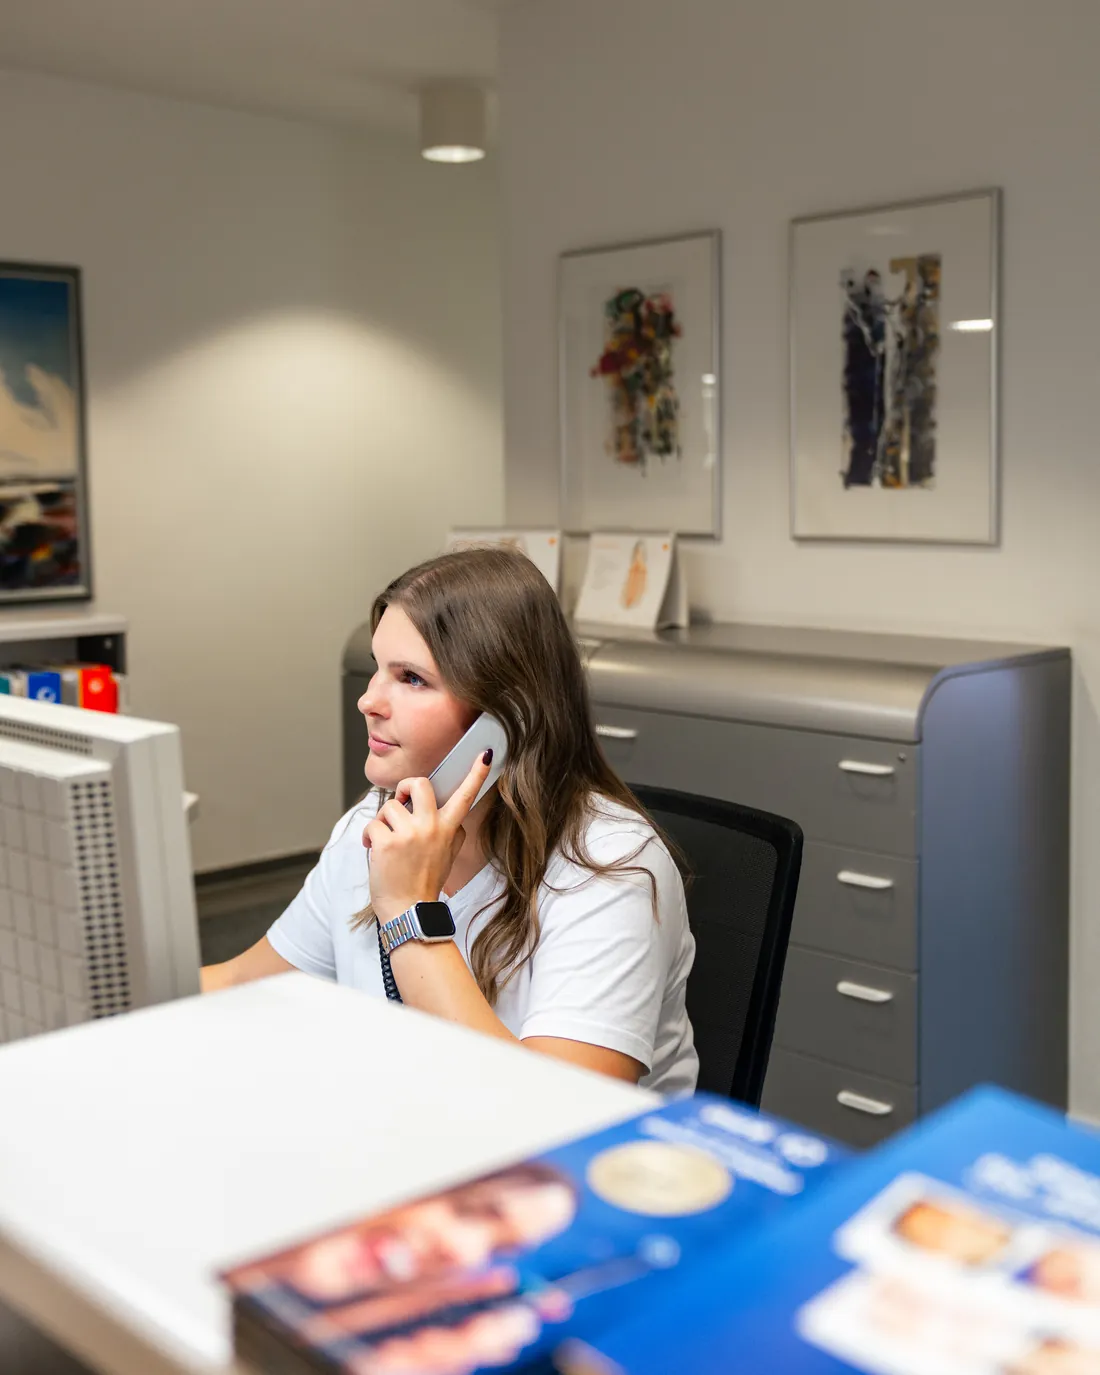
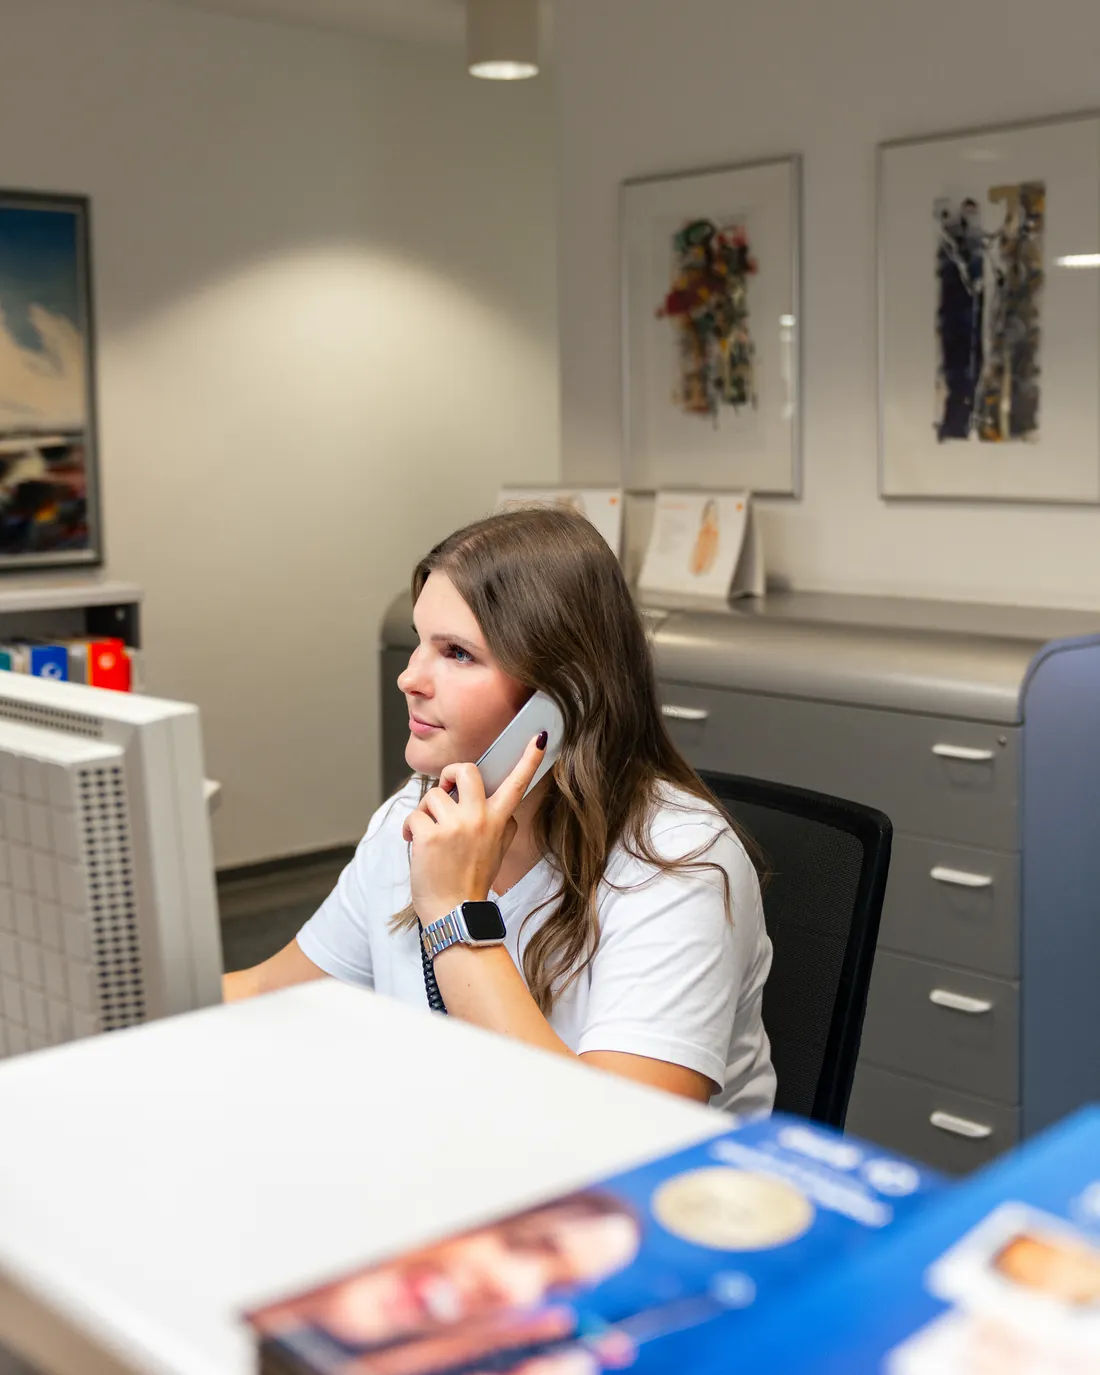
Bildausschnitte: Hero mittig, Galina zentriert, David/Martin einheitlich
- Hero: Ausschnitt so verschoben, dass die Mitarbeiterin am Empfang mittig steht
  (leicht naeher dran), hero-empfang.webp?v=2
- Galina: Ausschnitt nach rechts, Person jetzt mittig (minimaler Zoom)
- David etwas naeher, Martin etwas weiter weg: beide jetzt gleich gross im Bild
- galina/david/martin.webp?v=3

diff --git a/public/index-en.html b/public/index-en.html
@@ -289,7 +289,7 @@
       <div class="reveal reveal-d1 hidden sm:block">
         <div class="img-slot aspect-[4/5] sm:aspect-[5/5] lg:aspect-auto lg:max-h-[460px] lg:h-[460px] rounded-[28px] shadow-[0_30px_60px_-30px_rgba(44,42,37,.35)] ring-1 ring-black/5">
           <span class="slot-label">Practice photo · reception</span>
-          <img src="assets/praxis/hero-empfang.webp" alt="Reception of Dr. Angelov's dental practice in Mönchengladbach" width="1100" height="1375" fetchpriority="high" style="object-position:50% 55%" loading="eager" onerror="this.style.display='none'" />
+          <img src="assets/praxis/hero-empfang.webp?v=2" alt="Reception of Dr. Angelov's dental practice in Mönchengladbach" width="1100" height="1375" fetchpriority="high" style="object-position:50% 55%" loading="eager" onerror="this.style.display='none'" />
         </div>
       </div>
 
@@ -510,7 +510,7 @@
         </figure>
 
         <figure class="shrink-0 w-[64%] sm:w-[40%] lg:w-[30%] rounded-2xl bg-sage-50 border border-sage-100 overflow-hidden">
-          <div class="img-slot aspect-[4/5]"><span class="slot-label">Portrait ·Galina K.</span><img src="assets/team/galina.webp?v=2" alt="Galina Knorr" loading="lazy" onerror="this.style.display='none'" /></div>
+          <div class="img-slot aspect-[4/5]"><span class="slot-label">Portrait ·Galina K.</span><img src="assets/team/galina.webp?v=3" alt="Galina Knorr" loading="lazy" onerror="this.style.display='none'" /></div>
           <figcaption class="p-4 sm:p-5"><h4 class="font-serif text-lg sm:text-xl text-ink">Galina Knorr</h4><p class="mt-1.5 text-sage-600 font-medium">Reception &amp; assisting</p></figcaption>
         </figure>
 
@@ -535,12 +535,12 @@
         </figure>
 
         <figure class="shrink-0 w-[64%] sm:w-[40%] lg:w-[30%] rounded-2xl bg-sage-50 border border-sage-100 overflow-hidden">
-          <div class="img-slot aspect-[4/5]"><span class="slot-label">Portrait ·David F.</span><img src="assets/team/david.webp?v=2" alt="David Faust" loading="lazy" onerror="this.style.display='none'" /></div>
+          <div class="img-slot aspect-[4/5]"><span class="slot-label">Portrait ·David F.</span><img src="assets/team/david.webp?v=3" alt="David Faust" loading="lazy" onerror="this.style.display='none'" /></div>
           <figcaption class="p-4 sm:p-5"><h4 class="font-serif text-lg sm:text-xl text-ink">David Faust</h4><p class="mt-1.5 text-sage-600 font-medium">Dental lab</p></figcaption>
         </figure>
 
         <figure class="shrink-0 w-[64%] sm:w-[40%] lg:w-[30%] rounded-2xl bg-sage-50 border border-sage-100 overflow-hidden">
-          <div class="img-slot aspect-[4/5]"><span class="slot-label">Portrait ·Martin A.</span><img src="assets/team/martin.webp?v=2" alt="Martin Angelov" loading="lazy" onerror="this.style.display='none'" /></div>
+          <div class="img-slot aspect-[4/5]"><span class="slot-label">Portrait ·Martin A.</span><img src="assets/team/martin.webp?v=3" alt="Martin Angelov" loading="lazy" onerror="this.style.display='none'" /></div>
           <figcaption class="p-4 sm:p-5"><h4 class="font-serif text-lg sm:text-xl text-ink">Martin Angelov</h4><p class="mt-1.5 text-sage-600 font-medium">Dental lab</p></figcaption>
         </figure>
       </div>

diff --git a/public/index.html b/public/index.html
@@ -288,7 +288,7 @@
       <div class="reveal reveal-d1 hidden sm:block">
         <div class="img-slot aspect-[4/5] sm:aspect-[5/5] lg:aspect-auto lg:max-h-[460px] lg:h-[460px] rounded-[28px] shadow-[0_30px_60px_-30px_rgba(44,42,37,.35)] ring-1 ring-black/5">
           <span class="slot-label">Praxisfoto · Empfang</span>
-          <img src="assets/praxis/hero-empfang.webp" alt="Empfang der Zahnarztpraxis Dr. Angelov in Mönchengladbach" width="1100" height="1375" fetchpriority="high" style="object-position:50% 55%" loading="eager" onerror="this.style.display='none'" />
+          <img src="assets/praxis/hero-empfang.webp?v=2" alt="Empfang der Zahnarztpraxis Dr. Angelov in Mönchengladbach" width="1100" height="1375" fetchpriority="high" style="object-position:50% 55%" loading="eager" onerror="this.style.display='none'" />
         </div>
       </div>
 
@@ -509,7 +509,7 @@
         </figure>
 
         <figure class="shrink-0 w-[64%] sm:w-[40%] lg:w-[30%] rounded-2xl bg-sage-50 border border-sage-100 overflow-hidden">
-          <div class="img-slot aspect-[4/5]"><span class="slot-label">Porträt · Galina K.</span><img src="assets/team/galina.webp?v=2" alt="Galina Knorr" loading="lazy" onerror="this.style.display='none'" /></div>
+          <div class="img-slot aspect-[4/5]"><span class="slot-label">Porträt · Galina K.</span><img src="assets/team/galina.webp?v=3" alt="Galina Knorr" loading="lazy" onerror="this.style.display='none'" /></div>
           <figcaption class="p-4 sm:p-5"><h4 class="font-serif text-lg sm:text-xl text-ink">Galina Knorr</h4><p class="mt-1.5 text-sage-600 font-medium">Anmeldung &amp; Assistenz</p></figcaption>
         </figure>
 
@@ -534,12 +534,12 @@
         </figure>
 
         <figure class="shrink-0 w-[64%] sm:w-[40%] lg:w-[30%] rounded-2xl bg-sage-50 border border-sage-100 overflow-hidden">
-          <div class="img-slot aspect-[4/5]"><span class="slot-label">Porträt · David F.</span><img src="assets/team/david.webp?v=2" alt="David Faust" loading="lazy" onerror="this.style.display='none'" /></div>
+          <div class="img-slot aspect-[4/5]"><span class="slot-label">Porträt · David F.</span><img src="assets/team/david.webp?v=3" alt="David Faust" loading="lazy" onerror="this.style.display='none'" /></div>
           <figcaption class="p-4 sm:p-5"><h4 class="font-serif text-lg sm:text-xl text-ink">David Faust</h4><p class="mt-1.5 text-sage-600 font-medium">Labor</p></figcaption>
         </figure>
 
         <figure class="shrink-0 w-[64%] sm:w-[40%] lg:w-[30%] rounded-2xl bg-sage-50 border border-sage-100 overflow-hidden">
-          <div class="img-slot aspect-[4/5]"><span class="slot-label">Porträt · Martin A.</span><img src="assets/team/martin.webp?v=2" alt="Martin Angelov" loading="lazy" onerror="this.style.display='none'" /></div>
+          <div class="img-slot aspect-[4/5]"><span class="slot-label">Porträt · Martin A.</span><img src="assets/team/martin.webp?v=3" alt="Martin Angelov" loading="lazy" onerror="this.style.display='none'" /></div>
           <figcaption class="p-4 sm:p-5"><h4 class="font-serif text-lg sm:text-xl text-ink">Martin Angelov</h4><p class="mt-1.5 text-sage-600 font-medium">Labor</p></figcaption>
         </figure>
       </div>
